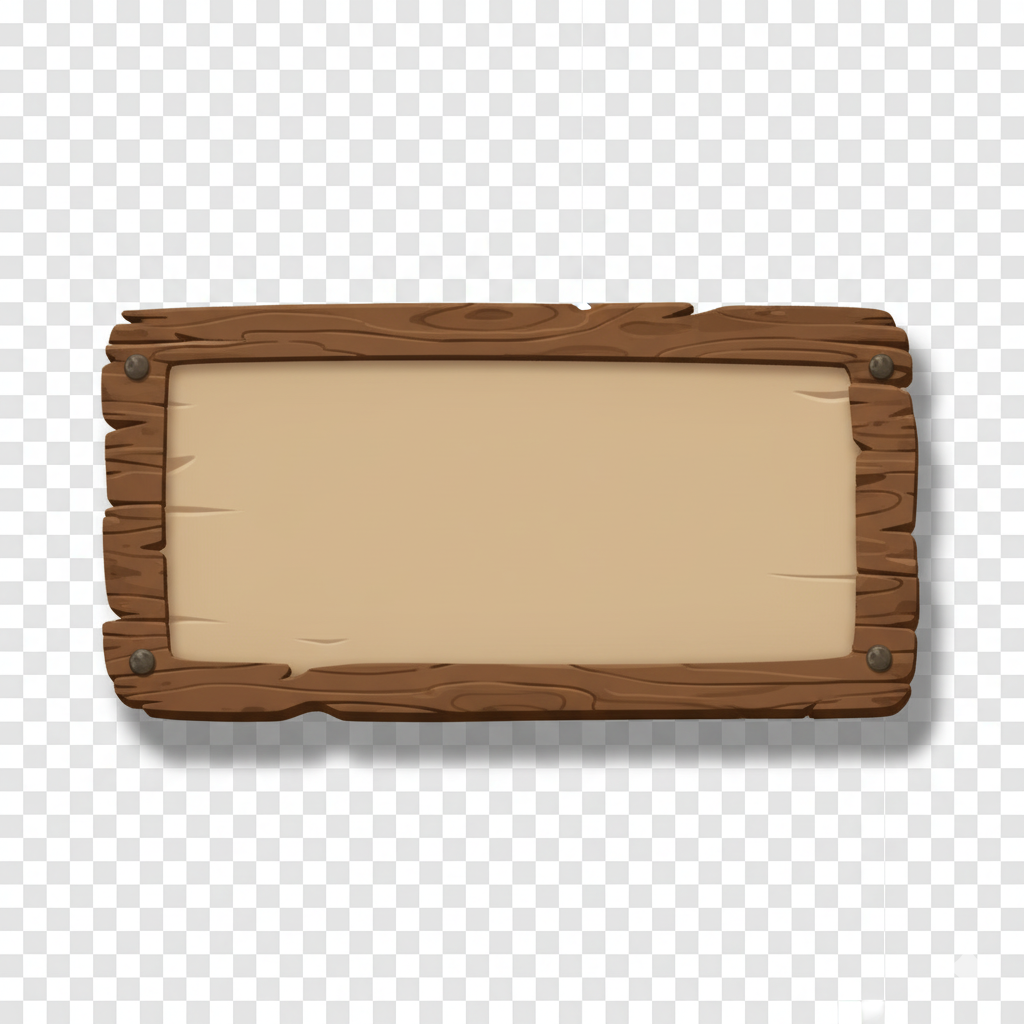
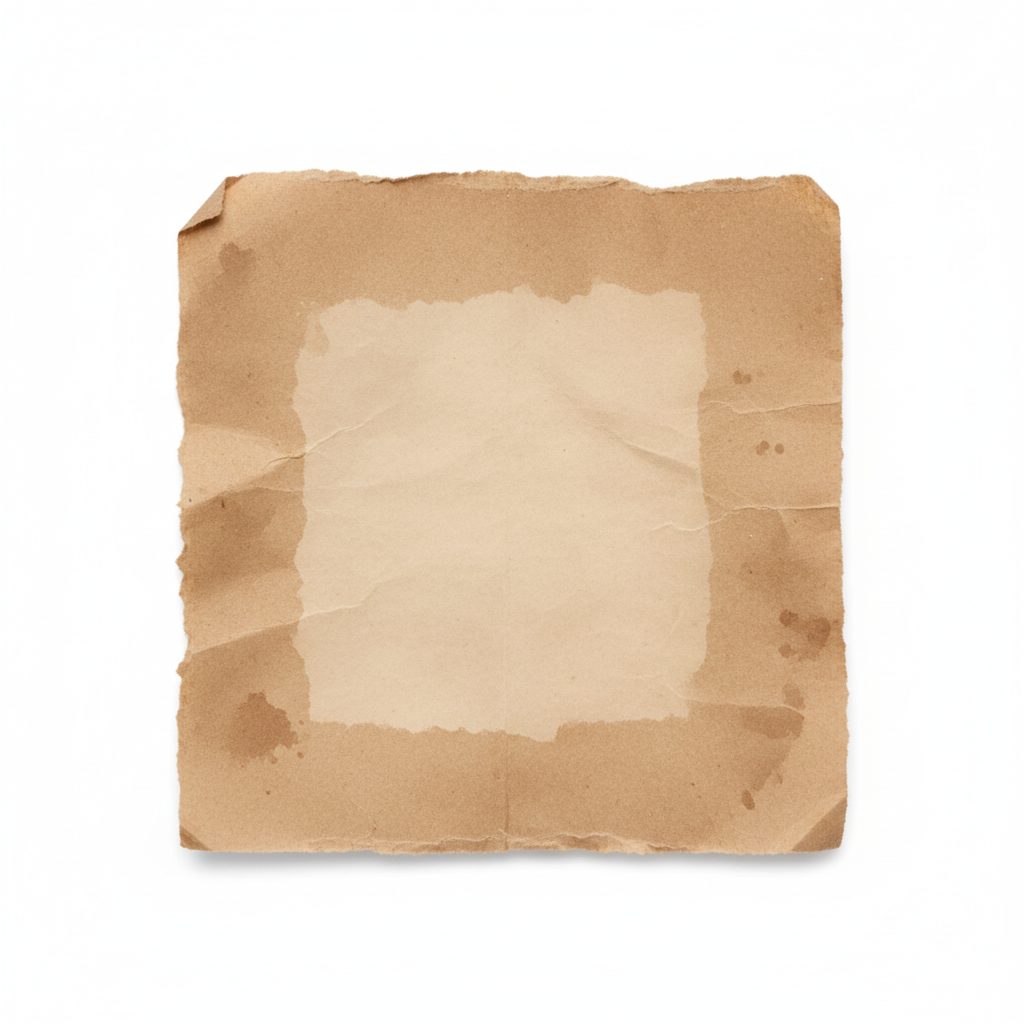
hoodoo voodoo

diff --git a/src/app/components/HoodooVoodooMagick.tsx b/src/app/components/HoodooVoodooMagick.tsx
@@ -505,7 +505,6 @@ const VoodooStep5_MakeOffering: React.FC<{ onNext: () => void, selections: strin
 const VoodooStep6_PresentOffering: React.FC<{ onNext: () => void; lwa: string; }> = ({ onNext, lwa }) => {
     const [isPresented, setIsPresented] = useState(false);
     
-    // THE FIX: Add a safeguard to prevent rendering with an invalid `lwa` prop.
     if (!lwa) {
         return <StepContainer stageTitle="Error"><p className="text-red-400">No Lwa was selected. Please restart the ritual.</p></StepContainer>;
     }
@@ -542,23 +541,26 @@ const Step7_Manifestation: React.FC<{ affirmation: string, path: RitualPath, onF
 
     return (
         <StepContainer stageTitle={path === 'hoodoo' ? "The Work is Done" : "The Lwa is Served"} button={<RitualButton onClick={onFinish}>Return</RitualButton>}>
-            <div className="relative w-full h-full max-w-2xl aspect-square @container mx-auto">
-                 <Image src={`${ASSET_PATH}/${finalImage}`} alt="Final Manifestation" layout="fill" objectFit="contain" />
-                 {path === 'voodoo' && (
-                     <div className="absolute inset-0 overflow-hidden pointer-events-none">
-                         {particles.map(p => (
-                             <motion.div key={p.id} initial={{opacity: 0, y: 0}} animate={{opacity: [0, 0.8, 0], y: p.y}} transition={{duration: p.duration, delay: p.delay, repeat: Infinity, repeatType: "loop"}} style={{x: p.x}} className="absolute top-1/2 left-1/2 w-12 h-12">
+            <div className="flex flex-col md:flex-row items-center justify-center gap-8 w-full max-w-4xl">
+                {/* THE FIX: Main Scene Container */}
+                <div className="relative w-72 h-80 md:w-96 md:h-[420px]">
+                    <Image src={`${ASSET_PATH}/${finalImage}`} alt="Final Manifestation" layout="fill" objectFit="contain" />
+                    {path === 'voodoo' && (
+                        <div className="absolute inset-0 overflow-hidden pointer-events-none">
+                            {particles.map(p => (
+                                <motion.div key={p.id} initial={{opacity: 0, y: 0}} animate={{opacity: [0, 0.8, 0], y: p.y}} transition={{duration: p.duration, delay: p.delay, repeat: Infinity, repeatType: "loop"}} style={{x: p.x}} className="absolute top-1/2 left-1/2 w-12 h-12">
                                 <Image src={`${ASSET_PATH}/ui-particle-spirit.png`} alt="spirit particle" layout="fill" />
-                             </motion.div>
-                         ))}
-                     </div>
-                 )}
-                <div className="absolute flex items-center justify-center p-4" style={{left: '30%', top: '40%', width: '40%', height: '20%'}}>
-                    <div className="relative w-full h-full">
-                        <Image src={`${ASSET_PATH}/ui-affirmation-plaque.png`} alt="Affirmation Plaque" layout="fill" objectFit="contain"/>
-                        <div className="absolute inset-0 flex items-center justify-center p-2">
-                             <p className="text-center text-[#4a2e1c] font-serif" style={{fontSize: 'clamp(0.5rem, 2.5cqw, 1rem)'}}>{affirmation}</p>
+                                </motion.div>
+                            ))}
                         </div>
+                    )}
+                </div>
+
+                {/* THE FIX: Affirmation Plaque Container */}
+                <div className="relative w-64 h-40 @container">
+                    <Image src={`${ASSET_PATH}/ui-affirmation-plaque.png`} alt="Affirmation Plaque" layout="fill" objectFit="contain"/>
+                    <div className="absolute inset-0 flex items-center justify-center p-[12%]">
+                        <p className="text-center text-[#4a2e1c] font-serif" style={{fontSize: 'clamp(0.7rem, 4cqw, 1.1rem)'}}>{affirmation}</p>
                     </div>
                 </div>
             </div>
